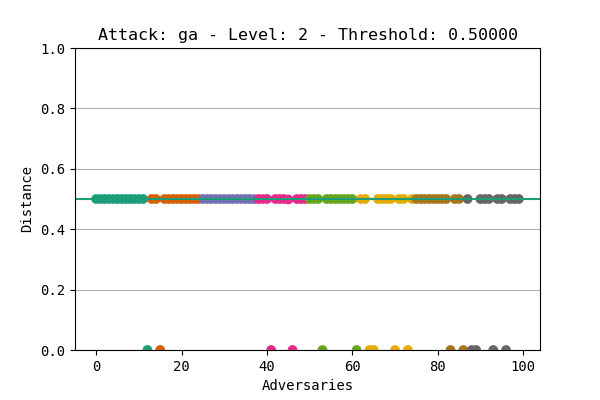
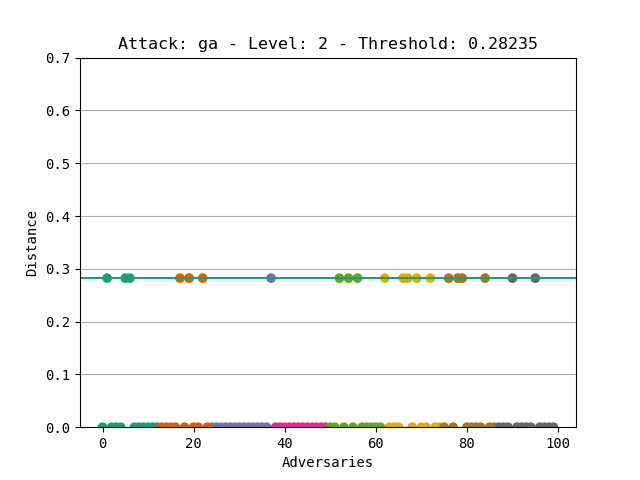
Rerun GenAttack on ResNet18 with new thresholds

diff --git a/adversarial_attack/adv_attack_generator.py b/adversarial_attack/adv_attack_generator.py
@@ -36,7 +36,8 @@ SAVE_DIST = False
 SAVE_ADVS = True
 
 # Save distance plot to local or visualize plot directly
-DIST_PLOT_VISUAL = True
+# ! Note that this value won't affect HSJA plotting behavior -- not plotting
+DIST_PLOT_VISUAL = False
 
 THRESHOLD = {
   1: {

diff --git a/adversarial_attack/distance_visualize.py b/adversarial_attack/distance_visualize.py
@@ -54,7 +54,7 @@ def plot_distances(distances, save_plot=False):
     )
 
 
-""" Read HSJA distance file """
+# Read HSJA distance file
 dist_str = []
 with open(DIST_FILE_PATH, "r") as f:
   for line in f.readlines():
